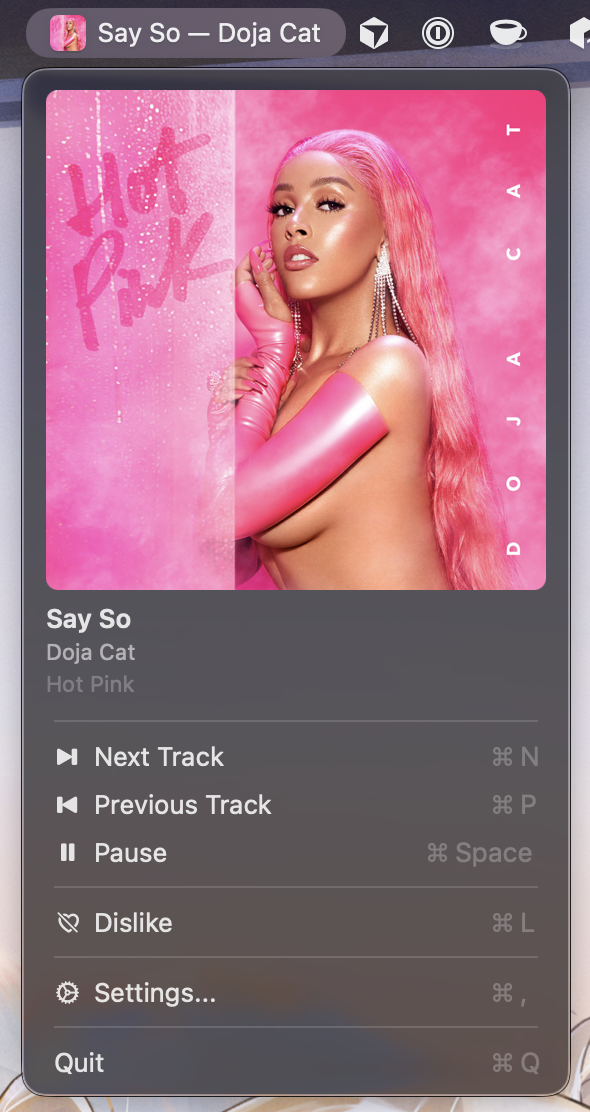
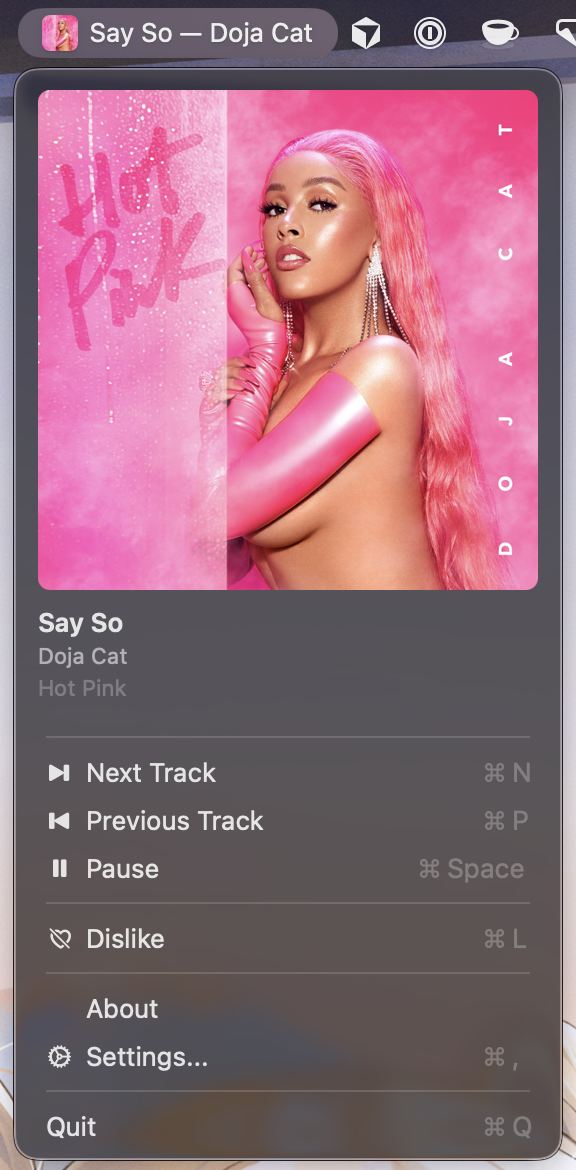
feat: add about window

diff --git a/MenuPlay/MenuPlay/MenuPlayApp.swift b/MenuPlay/MenuPlay/MenuPlayApp.swift
@@ -29,6 +29,7 @@ final class AppDelegate: NSObject, NSApplicationDelegate, NSMenuDelegate {
     private var previousTrackMenuItem: NSMenuItem!
     private var likeMenuItem: NSMenuItem!
     private var settingsWindow: NSWindow?
+    private var aboutWindow: NSWindow?
     private var currentLikedState: Bool = false
 
     private var maxChars: Int {
@@ -91,7 +92,15 @@ final class AppDelegate: NSObject, NSApplicationDelegate, NSMenuDelegate {
         menu.addItem(likeMenuItem)
 
         menu.addItem(.separator())
-        menu.addItem(NSMenuItem(title: "Settings...", action: #selector(openSettings), keyEquivalent: ","))
+
+        let aboutMenuItem = NSMenuItem(title: "About", action: #selector(openAbout), keyEquivalent: "")
+        aboutMenuItem.image = nil
+        menu.addItem(aboutMenuItem)
+
+        let settingsMenuItem = NSMenuItem(title: "Settings...", action: #selector(openSettings), keyEquivalent: ",")
+        settingsMenuItem.image = nil
+        menu.addItem(settingsMenuItem)
+
         menu.addItem(.separator())
         menu.addItem(NSMenuItem(title: "Quit", action: #selector(quit), keyEquivalent: "q"))
 
@@ -389,6 +398,28 @@ final class AppDelegate: NSObject, NSApplicationDelegate, NSMenuDelegate {
         settingsWindow = window
     }
 
+    @objc private func openAbout() {
+        if let window = aboutWindow {
+            window.makeKeyAndOrderFront(nil)
+            NSApp.activate(ignoringOtherApps: true)
+            return
+        }
+
+        let window = NSWindow(
+            contentRect: NSRect(x: 0, y: 0, width: 340, height: 200),
+            styleMask: [.titled, .closable],
+            backing: .buffered,
+            defer: false
+        )
+        window.title = "About MenuPlay"
+        window.center()
+        window.isReleasedWhenClosed = false
+        window.contentView = NSHostingView(rootView: AboutView())
+        window.makeKeyAndOrderFront(nil)
+        NSApp.activate(ignoringOtherApps: true)
+        aboutWindow = window
+    }
+
     @objc private func quit() {
         NSApplication.shared.terminate(nil)
     }
@@ -509,5 +540,64 @@ struct SettingsView: View {
         .onReceive(NotificationCenter.default.publisher(for: .spotifyAuthChanged)) { _ in
             authState = SpotifyAPI.shared.authState
         }
+    }
+}
+
+struct AboutView: View {
+    private let repositoryURL = URL(string: "https://github.com/pro-verstka/menuplay")!
+    private let versionText: String = {
+        let shortVersion = Bundle.main.object(forInfoDictionaryKey: "CFBundleShortVersionString") as? String
+        let buildVersion = Bundle.main.object(forInfoDictionaryKey: "CFBundleVersion") as? String
+
+        if let shortVersion, let buildVersion, shortVersion != buildVersion {
+            return "\(shortVersion) (\(buildVersion))"
+        }
+        if let shortVersion {
+            return shortVersion
+        }
+        if let buildVersion {
+            return buildVersion
+        }
+        return "Unknown"
+    }()
+
+    var body: some View {
+        VStack(spacing: 12) {
+            Text("MenuPlay")
+                .font(.title2)
+                .fontWeight(.semibold)
+
+            Text("Spotify Now Playing in your macOS menu bar.")
+                .font(.subheadline)
+                .foregroundStyle(.secondary)
+                .multilineTextAlignment(.center)
+
+            Divider()
+
+            HStack {
+                Text("Version")
+                    .foregroundStyle(.secondary)
+                Spacer()
+                Text(versionText)
+            }
+
+            HStack {
+                Text("Author")
+                    .foregroundStyle(.secondary)
+                Spacer()
+                Text("pro-verstka")
+            }
+
+            HStack {
+                Text("Git")
+                    .foregroundStyle(.secondary)
+                Spacer()
+                Link("github.com/pro-verstka/menuplay", destination: repositoryURL)
+            }
+
+            Spacer()
+        }
+        .padding(20)
+        .frame(width: 340, height: 200)
     }
 }
